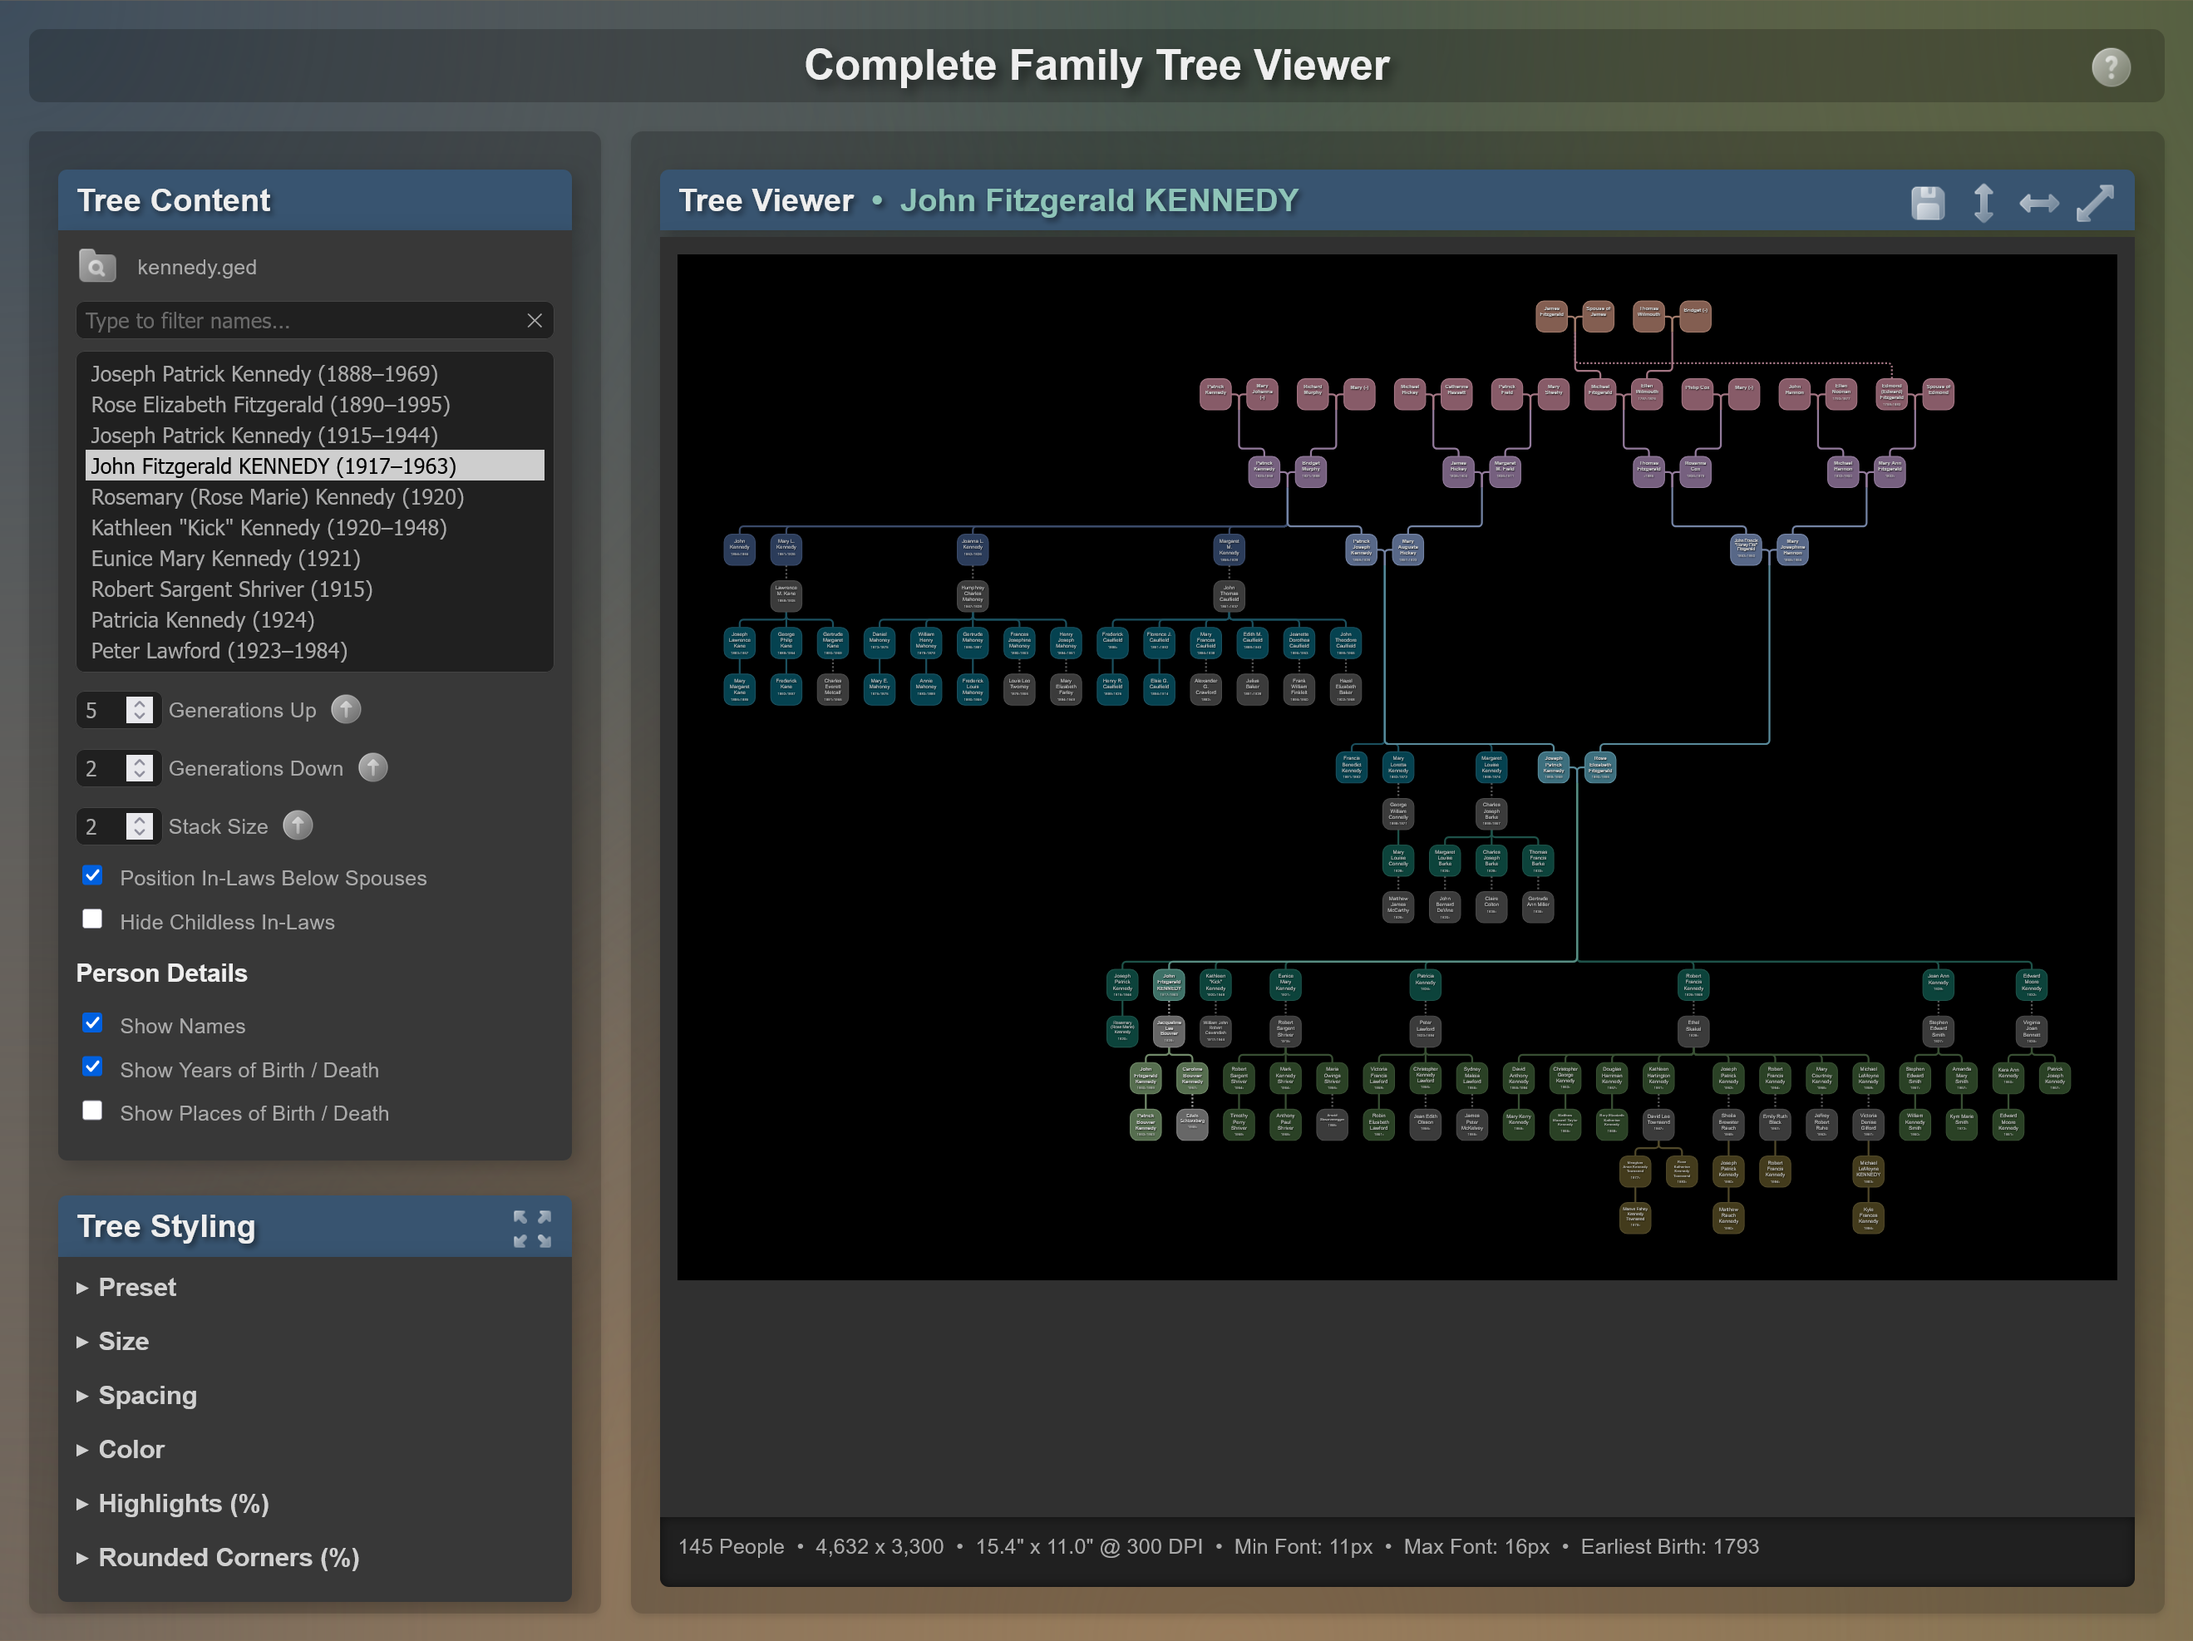
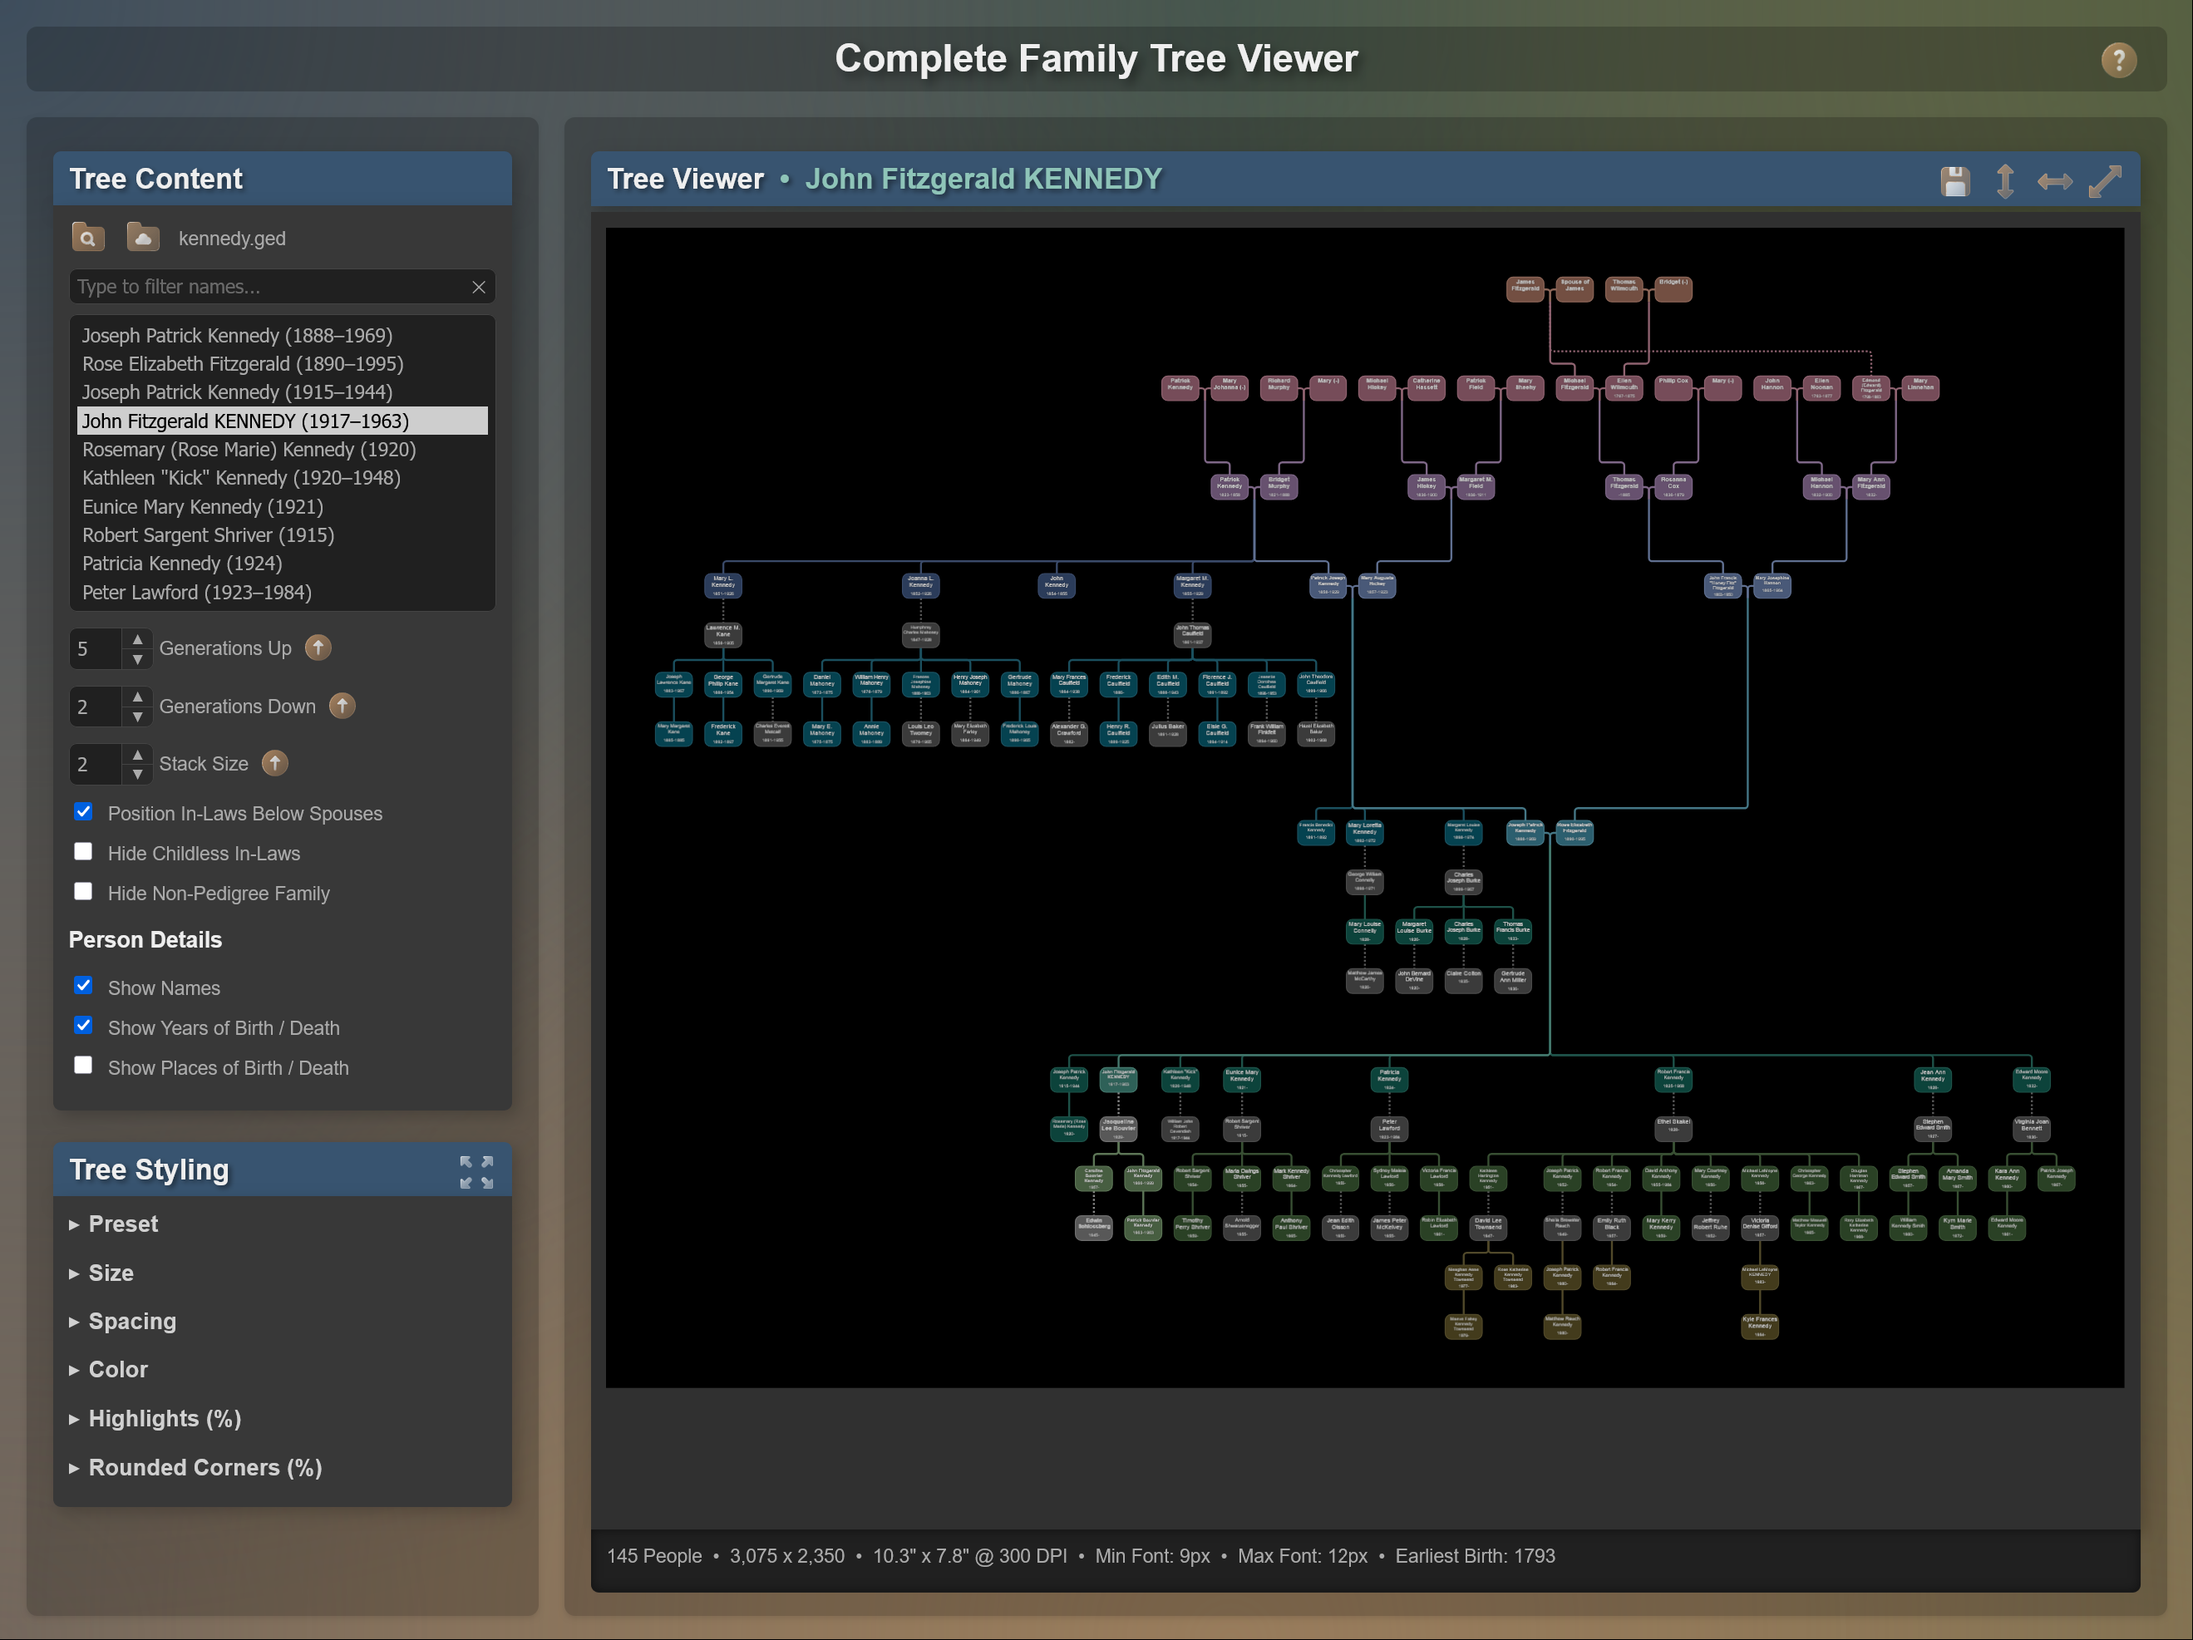
Added new features to README.

diff --git a/src/js/draw_tree.js b/src/js/draw_tree.js
@@ -760,35 +760,16 @@ function fitTextInBox(str, width, height, fontFamily = 'Arial, sans-serif', font
     }
 
     // Word-wrap the string into lines that fit within maxWidth at the given fontSize.
-    // Splits on spaces and after hyphens; tokens wider than maxWidth are placed on their own line.
+    // Splits only on spaces and after hyphens; tokens wider than maxWidth are placed on their
+    // own line without further character splitting (the caller reduces font size instead).
     function wrapText(text, fontSize, maxWidth) {
-        function splitTokenToWidth(token) {
-            if (measureTextWidth(token, fontSize) <= maxWidth) return [token];
-
-            const pieces = [];
-            let current = '';
-
-            for (const ch of token) {
-                const candidate = current + ch;
-                if (current && (measureTextWidth(candidate, fontSize) > maxWidth)) {
-                    pieces.push(current);
-                    current = ch;
-                } else {
-                    current = candidate;
-                }
-            }
-
-            if (current) pieces.push(current);
-            return pieces.length > 0 ? pieces : [token];
-        }
-
         // Split into tokens that break on spaces and after hyphens (keeping the hyphen with the preceding token)
         const tokens = text.match(/[^\s-]+-|[^\s-]+|\s+/g) || [''];
-        // Filter out whitespace-only tokens but track where spaces were
+        // Filter out whitespace-only tokens
         const parts = [];
         for (const token of tokens) {
             if (/^\s+$/.test(token)) continue;
-            splitTokenToWidth(token).forEach(piece => parts.push(piece));
+            parts.push(token);
         }
         if (parts.length === 0) return [''];
         const lines = [];

diff --git a/tests/draw_tree_helpers.test.js b/tests/draw_tree_helpers.test.js
@@ -206,18 +206,16 @@ describe('rendering helpers', () => {
         expect(layout.name_lines).toEqual(['Very Long', 'Person Name']);
     });
 
-    it('11.14 fitTextInBox wraps long unbroken names across multiple lines when height allows', () => {
+    it('11.14 fitTextInBox does not split unbroken names mid-character; falls back to min font size', () => {
         const context = loadDrawTreeContext({ box_width: 72, box_height: 56, box_padding: 2 });
 
+        // A single token with no spaces or hyphens must not be broken mid-character.
+        // It stays on one line and the font size falls to the minimum.
         const fit = context.fitTextInBox('AlexandriaCatherineMontgomerySmythe', 72, 56, 'Arial, sans-serif', 'normal', 12);
 
-        expect(fit.fontSize).toBeGreaterThan(6);
-        expect(fit.lines.length).toBeGreaterThan(1);
-        fit.lines.forEach(line => {
-            const lineFit = context.fitTextInBox(line, 72, 56, 'Arial, sans-serif', 'normal', fit.fontSize);
-            expect(lineFit.lines.length).toBe(1);
-            expect(lineFit.fontSize).toBeGreaterThanOrEqual(fit.fontSize);
-        });
+        expect(fit.fontSize).toBe(6);
+        expect(fit.lines.length).toBe(1);
+        expect(fit.lines[0]).toBe('AlexandriaCatherineMontgomerySmythe');
     });
 
     it('11.15 fitTextInBox fallback still returns wrapped lines at min size when no size fully fits height', () => {

diff --git a/README.md b/README.md
@@ -26,10 +26,10 @@ If you don't have a GEDCOM file available, you can download one of these [GEDCOM
 |                                          | Feature                       | Description |
 | ---------------------------------------- | ----------------------------- | ----------- |
 | ![](readme/icons8-browse-folder-48.png) | **GEDCOM Import**             | Select and view a GEDCOM file from your local device. |
-| ![](readme/icons8-privacy-48.png)       | **Data Privacy**              | Rest assured that no data is uploaded anywhere by this application. Processing is done in your browser. |
+| ![](readme/icons8-privacy-48.png)       | **Data Privacy**              | No data is uploaded anywhere by this application. Processing is done in your browser. |
 | ![](readme/icons8-complete-48.png)      | **Complete Tree Viewing**     | View a complete family tree that has no crossing lines. Utilize [stacking](#stacking) to minimize tree width. |
 | ![](readme/icons8-drag-48.png)          | **Interactive Tree Viewing**  | Zoom and pan to view the tree as you would with a map. |
-| ![](readme/icons8-filter-48.png)        | **Customizable Tree Content** | Choose how many generations (unlimited) and what information (names, dates, places) to view. |
+| ![](readme/icons8-filter-48.png)        | **Customizable Tree Content** | Choose how many generations (unlimited), which relatives (everyone or pedigree-only), and what information (names, dates, places) to view. |
 | ![](readme/icons8-layout-48.png)        | **Customizable Tree Layout**  | Configure the positioning of in-laws (beside or below their spouse) and children (stackable). |
 | ![](readme/icons8-customize-48.png)     | **Customizable Tree Styling** | Customize sizes, spacing, colors, highlights, and shapes to fit your needs. |
 | ![](readme/icons8-save-48.png)          | **PNG & SVG Exporting**       | Save the tree as a PNG or [SVG](https://en.wikipedia.org/wiki/SVG). |
@@ -88,14 +88,16 @@ The example below contains the same people as the previous example in the **leve
 
 | Option | Description |
 | ------ | ----------- |
-| ![](src/png/icons8-browse-folder-48-gold.png) | Click the Browse button to select and load a GEDCOM file from your computer. The people in thte GEDCOM file will be populated in the list below. |
+| ![](src/png/icons8-browse-folder-48-gold.png) | Click the Local Browse button to select and load a GEDCOM file from your computer. The people in thte GEDCOM file will be populated in the list below. |
+| ![](src/png/icons8-cloud-folder-48-gold.png) | Click the Cloud Browse button to select and load a GEDCOM file from a short list of online sample files. The people in thte GEDCOM file will be populated in the list below. |
 | Filter | Type a name in this box to filter the list of people. |
 | Select Root Person | Click on a person to make the root of the tree. Their family tree will be drawn. |
 | Generations Up | Change this value to control how many generations above the root person will be displayed. Click the up arrow <img src="src/png/icons8-top-48-gold.png" width="18" height="18"> to use the maximum possible value for the root person. |
 | Generations Down | Change this value to control how many generations below the root person will be displayed. Click the up arrow <img src="src/png/icons8-top-48-gold.png" width="18" height="18"> to use the maximum possible value for the root person. |
 | Stack Size | Change this value to control how many leaf nodes can be stacked in a single stack. Click the up arrow <img src="src/png/icons8-top-48-gold.png" width="18" height="18"> to use the maximum possible value for the root person. |
-| Position In-Laws Below Spouses | Click this checkbox to position in-laws below their spouses. If it is unchecked, they will be beside their spouses. |
+| Position&nbsp;In&#8209;Laws&nbsp;Below&nbsp;Spouses | Click this checkbox to position in-laws below their spouses. If it is unchecked, they will be beside their spouses. |
 | Hide Childless In-Laws | Click this checkbox to hide in-laws who are leaf nodes. |
+| Hide Non-Pedigree Family | Click this checkbox to hide all people who are not direct ancestors or descendants of the root person, or spouses of the root person and their descendants. |
 
 ### Person Details
 | Option | Description |

diff --git a/test-list.md b/test-list.md
@@ -218,7 +218,7 @@ Use these fixture profiles when implementing tests:
 |  Automated  | 11.11 | In-law spouse/stack links are always desaturated (grey) |
 |  Automated  | 11.12 | drawText initial layout can reduce secondary font size (years shown) to improve long-name fit |
 |  Automated  | 11.13 | drawText renders long names across multiple name lines before years when places are hidden |
-|  Automated  | 11.14 | fitTextInBox wraps long unbroken names to multiple lines when vertical space allows |
+|  Automated  | 11.14 | fitTextInBox does not split unbroken names mid-character; falls back to min font size instead |
 |  Automated  | 11.15 | fitTextInBox fallback returns wrapped min-size lines when height is too constrained for a full fit |
 |  Automated  | 11.16 | drawText wraps a long multi-part name before years when places are hidden |
 |  Automated  | 11.17 | drawText uses a shared SVG filter for text shadows |

diff --git a/todo-list.md b/todo-list.md
@@ -4,8 +4,6 @@
 
 | Priority |   Type  | Functions          | Description |
 |:--------:|:-------:|:---------------- -:| ----------- |
-|    🟠    |   Bug   | TBD               | ✅ Issues when root has no gender? no spouse? Issue for non-root individuals? |
-|    🔴    |   Bug   | Draw              | ✅ Auto box sizing no longer works |
 |    🟡    |   Bug   | Draw              | Auto box sizing sometimes seems to make errors |
 |    🟡    |   Bug   | UI                | Narrow windows push Tree Viewer header below buttons |
 |    🟢    |   Bug   | Draw              | Slower rendering for very large trees seems to be due to the text - without text it is quick |
